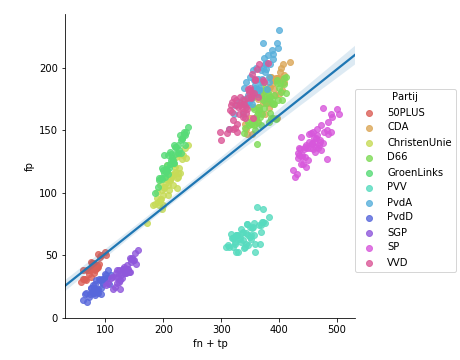
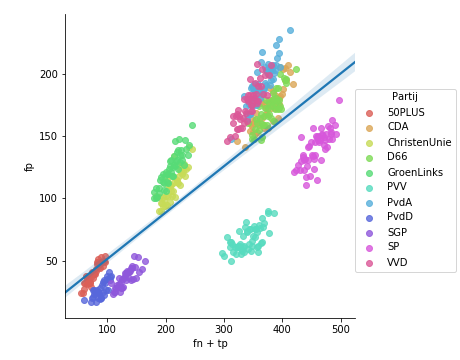
Updates from ShareLaTeX

diff --git a/Verslag/evaluation.tex b/Verslag/evaluation.tex
@@ -125,12 +125,28 @@ In tabel \ref{RegeringOppositie} zijn de resultaten van de classificatiescores t
 
 
 \subsection{DV4: Links/rechts}
+In tabel \ref{fig:distanceerror} is de error te zien ten opzichte van de afstand op de links/rechts schaal.
 \begin{figure}[H]
   \centering
     \includegraphics[width=0.50\paperwidth]{Verslag/Tables/Ideology.png}
-\caption{Aantal misclassificaties gedeeld door totaal aantal documenten per spreker tegenover totaal aantal documenten van een spreker. Misclassificaties zijn totaal van 5-fold cross-validation, waardoor documenten vaker mee kunnen tellen. De pearson correlatie is -0.28 en de p-waarde \num{1.07e-4}.}
-\label{fig:misclassifiedsprekers}
+\caption{Error ten opzichte van de afstand op de links/rechts schaal van twee partijen. Gebaseerd op 100 classificaties met verschillende test en train set. De pearson correlatie is 0.09 en de p-waarde \num{2.39e-20}.}
+\label{fig:distanceerror}
 \end{figure}
+De correlatie is met daarmee significant op het significantieniveau van 0.05, maar wel positief. Uit deelvraag 3 bleek dat de error binnen oppositie of regering significant afweek van de error tussen regering en oppositie. Dit effect lijkt ook zichtbaar in tabel \ref{fig:distanceerror}. Daarom wordt er in tabel \ref{tab:pearson} ook gekeken naar de correlatie tussen afstand op de links/rechts schaal en error binnen oppositie en tussen regerings- en oppositiepartij.
+
+\begin{table}[H]
+\caption{Uitslagen van eenzijdige Mann-whitneytoets tussen de distributie tussen een regeringspartij en oppositiepartij en twee distributies. $\alpha$ is 0.05.}
+\label{tab:pearson}
+\centering
+\begin{tabular}{lrr}
+\toprule
+{} &  Pearson correlatie &  p-waarde\\
+\midrule
+Tussen oppositie- en regeringspartij       &       -0.29 &    \num{3.44e-69} \\
+Tussen twee oppositiepartijen         &       0.18 &    \num{1.76e-55} \\
+\bottomrule
+\end{tabular}
+\end{table}
 
 \subsection{DV5: Woordgebruik van sprekers}
 In tabel \ref{tab:rapporttaalgebruik} staan de scores van classificatie waarbij de Kamerleden verdeeld zijn over de training en test set. De scores zijn hierbij amper hoger dan de baseline.

diff --git a/Verslag/methodology.tex b/Verslag/methodology.tex
@@ -92,7 +92,7 @@ Als er een afhankelijkheid is van partij-status, dan is te verwachten dat het aa
 \begin{figure}[H]
   \centering
     \includegraphics[width=0.60\paperwidth]{Verslag/Handmatig/Correlation.png}
-\caption{Het aantal \textit{false positives} ten opzichte van het aantal documenten behorend tot die partij (\textit{false negatives} en \textit{true positives}). Dit is op basis van 50 classificaties met verschillende test en train set. De pearson correlatie is 0.77 en de p-waarde \num{5.40e-101}.}
+\caption{Het aantal \textit{false positives} ten opzichte van het aantal documenten behorend tot die partij (\textit{false negatives} en \textit{true positives}). Dit is op basis van 100 classificaties met verschillende test en train set. De pearson correlatie is 0.77 en de p-waarde \num{5.40e-101}.}
 \label{fig:correlation}
 \end{figure}
 Op basis van dit verband is het verwachte aantal documenten
